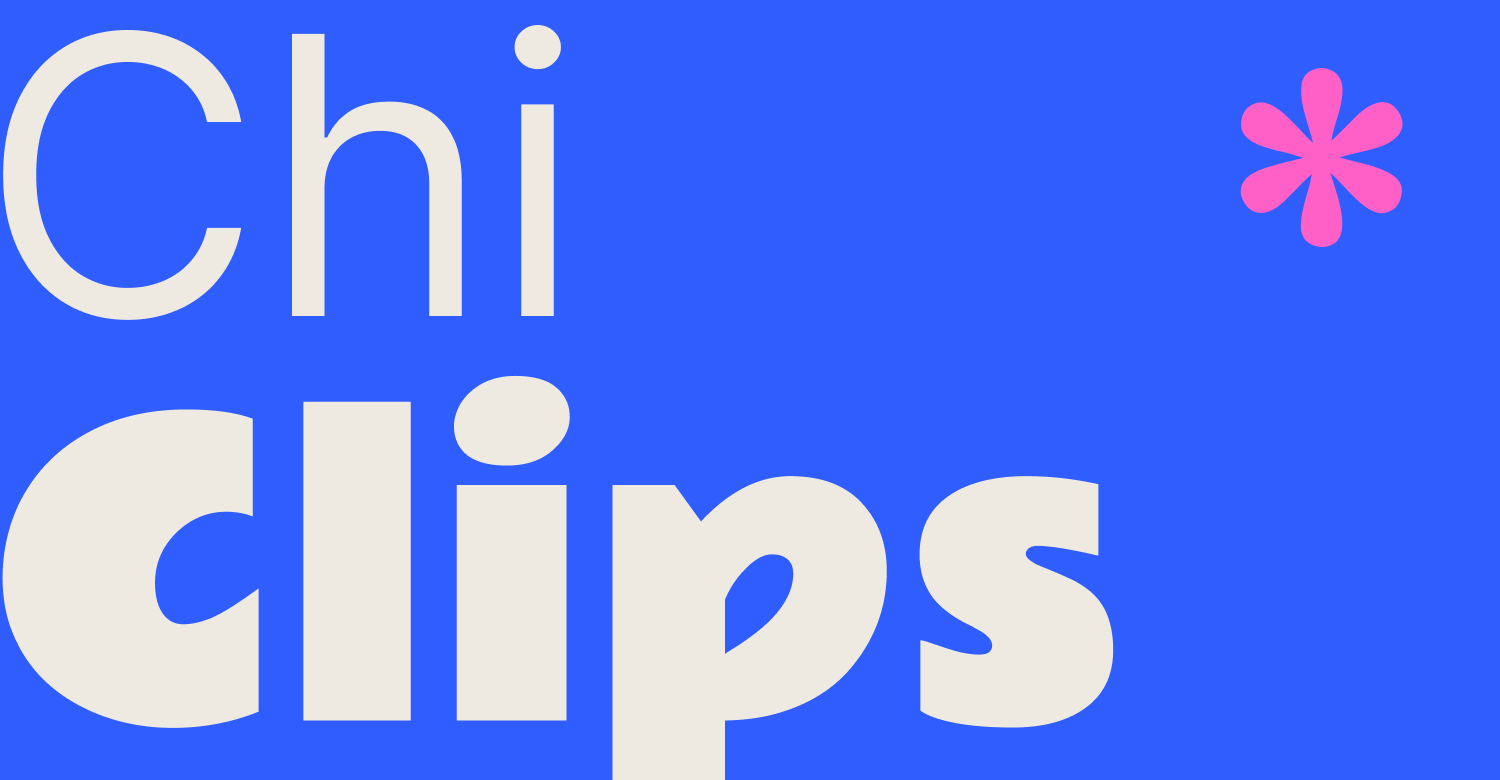
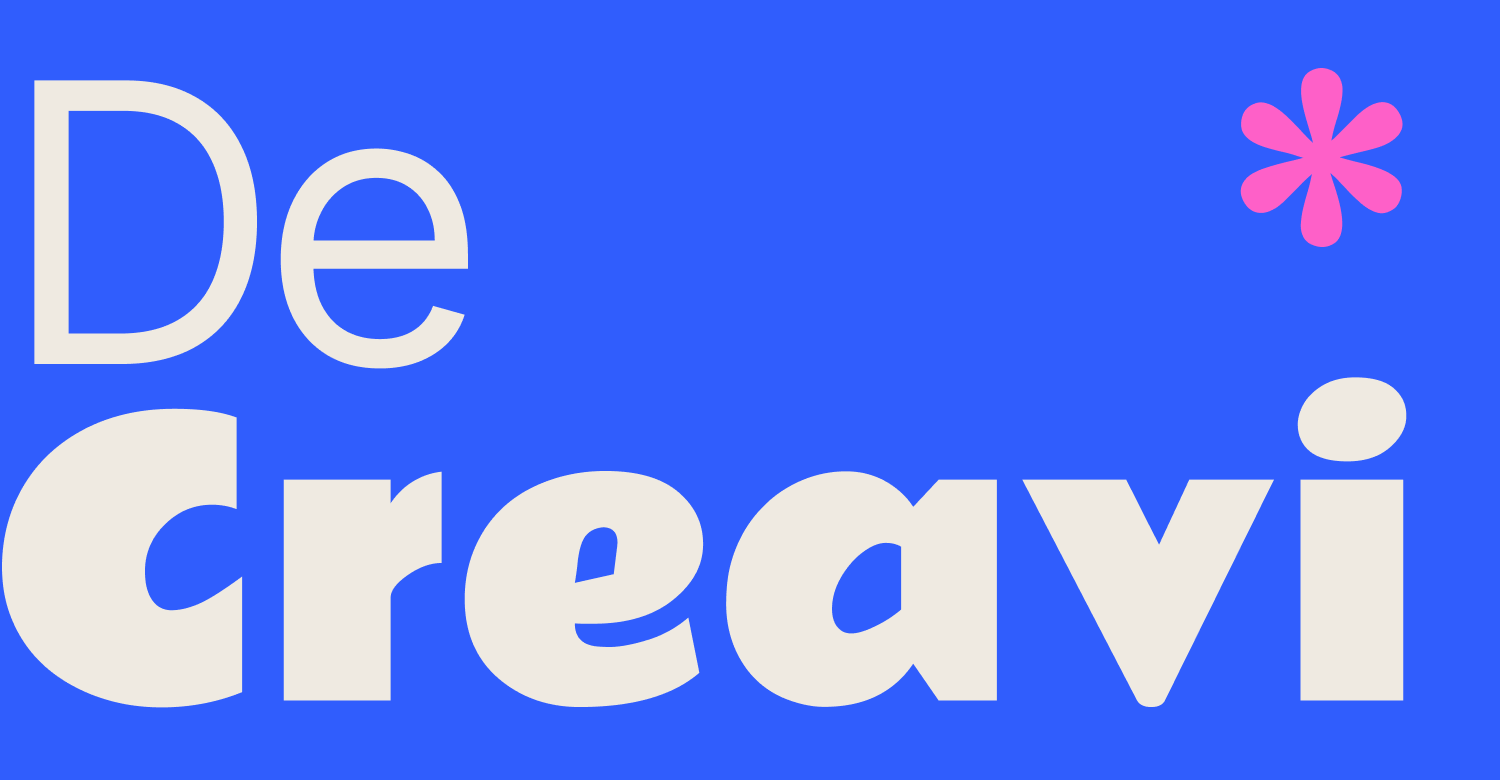
change name

diff --git a/index.html b/index.html
@@ -960,7 +960,7 @@
             <div class="price-cta magnetic-hover"><span>Book a 30 mins call</span></div>
         </a>
         <div class="copyright">
-            <div class="copy-left">© ChiClips 2024. All rights reserved.</div>
+            <div class="copy-left">© DeCreavi 2024. All rights reserved.</div>
             <div class="copy-right">Website Created By <a class="underline" href="https://hafidyusuf.com/">Hafid</a></div>
         </div>
     </div>
